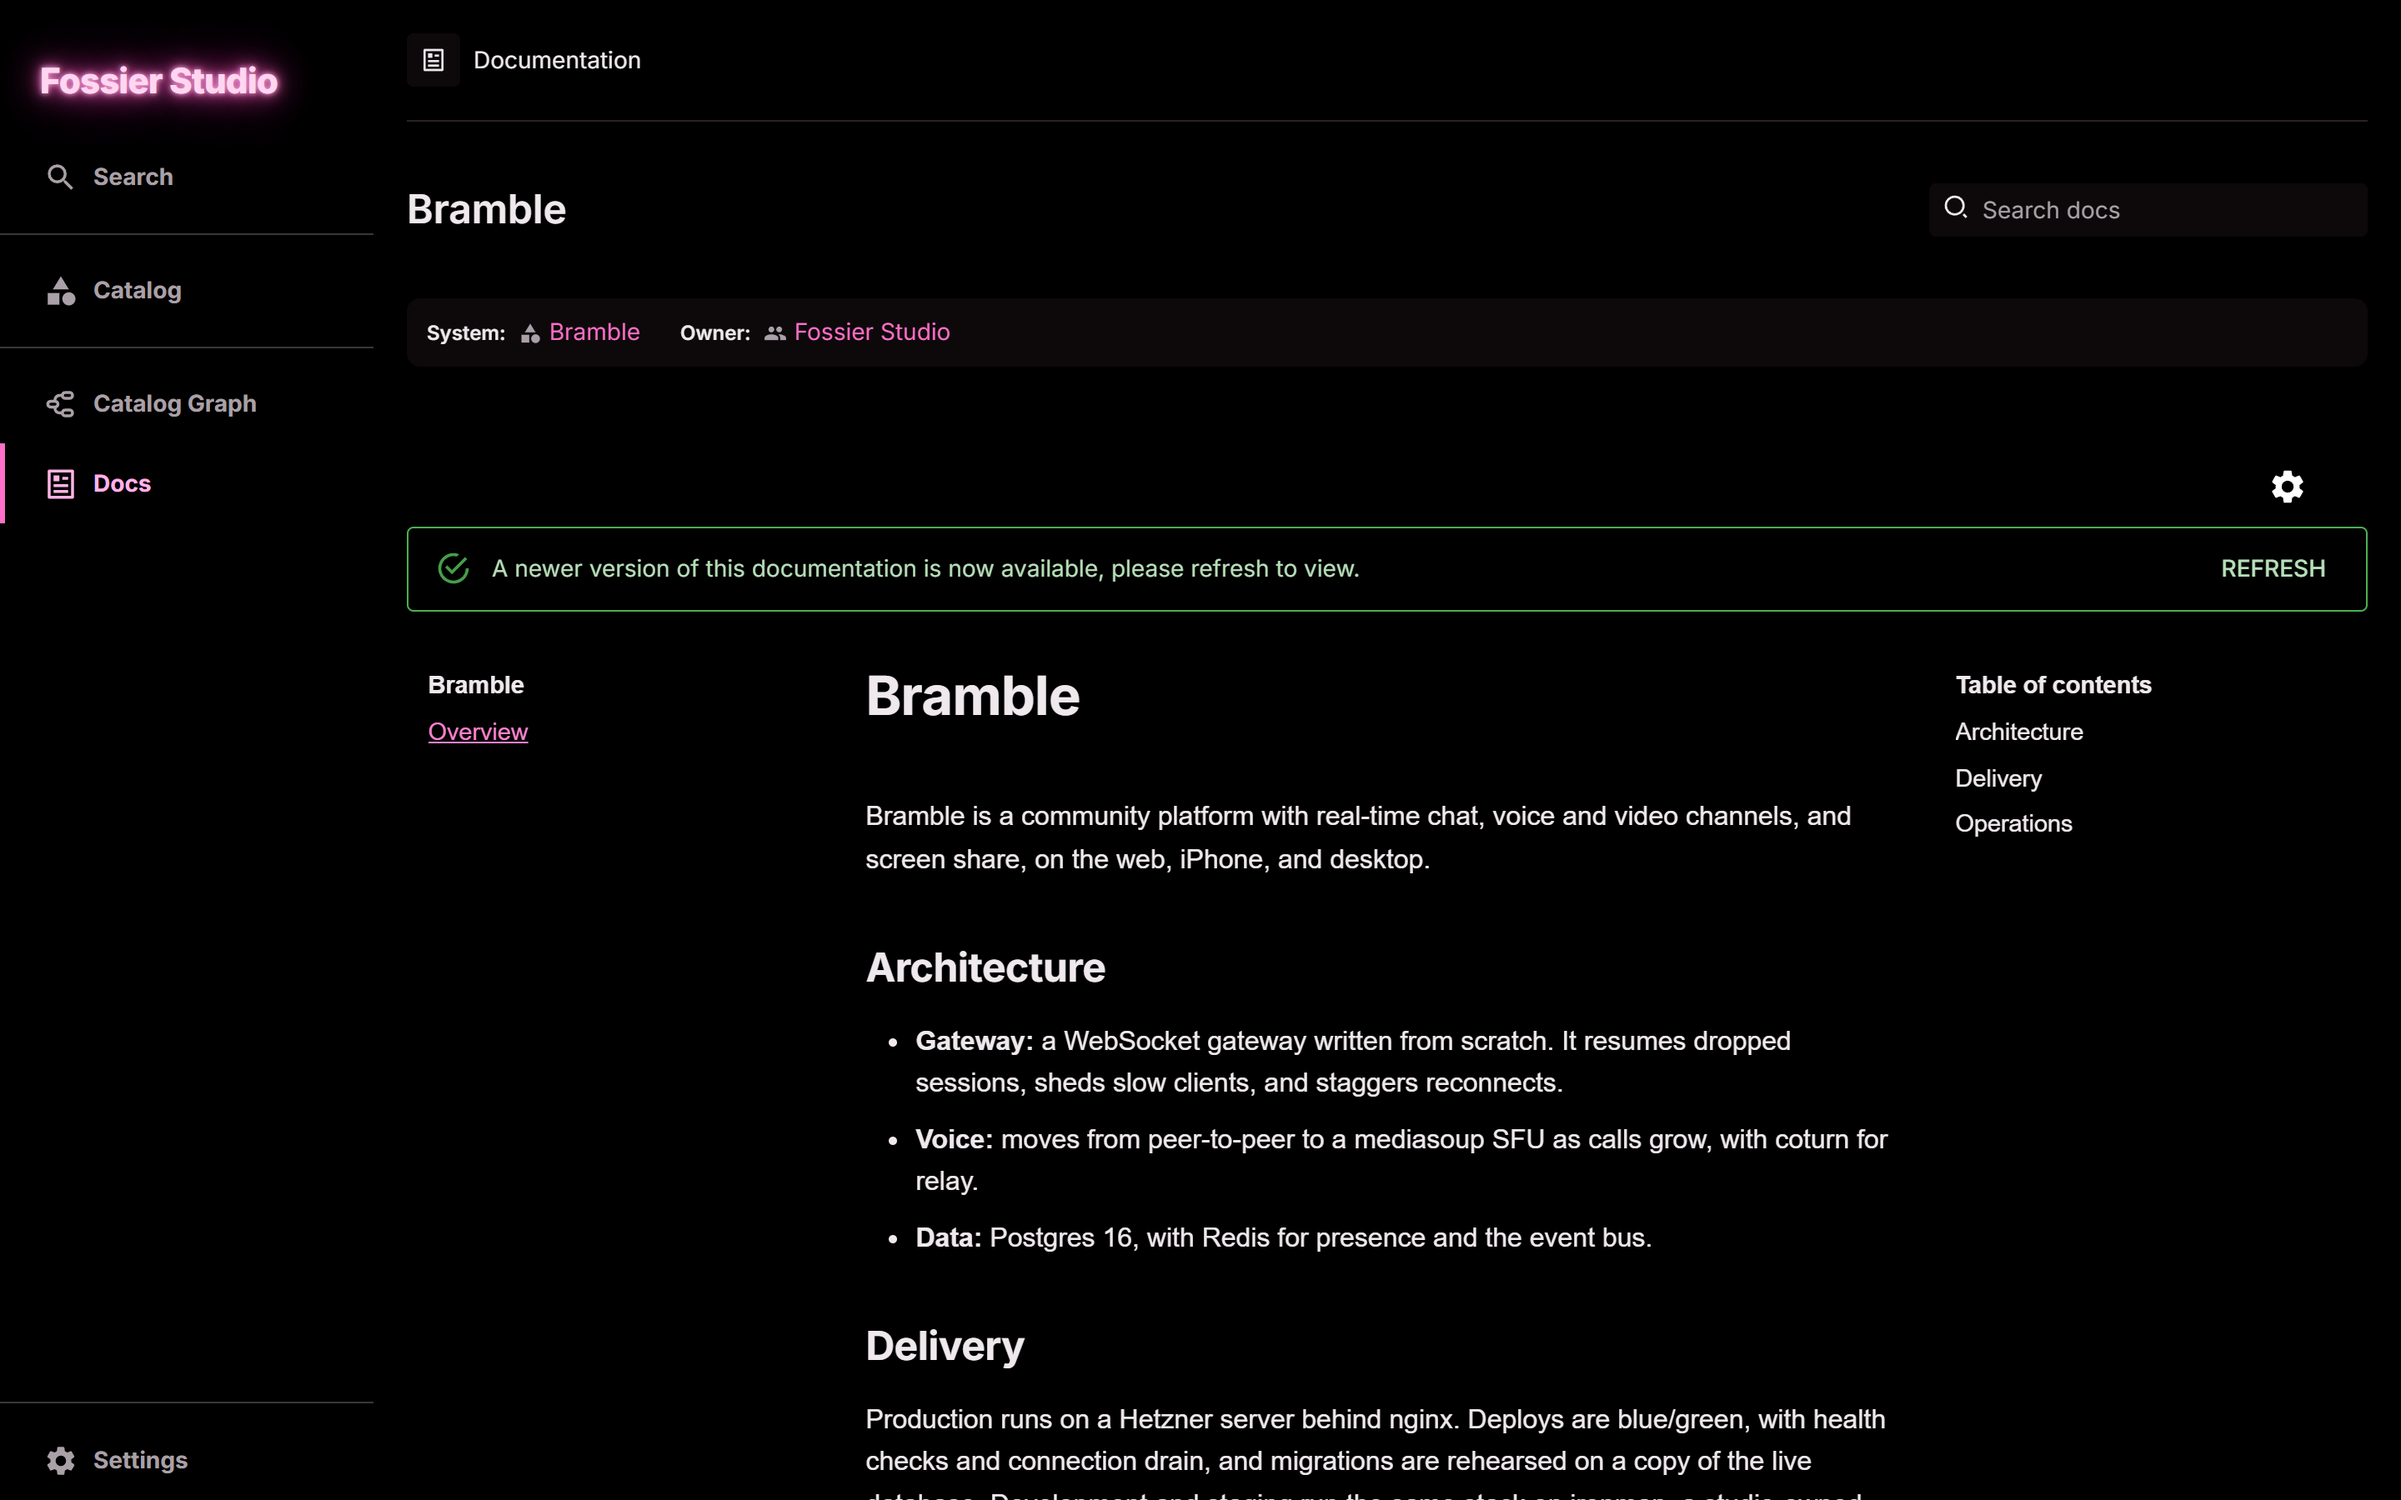
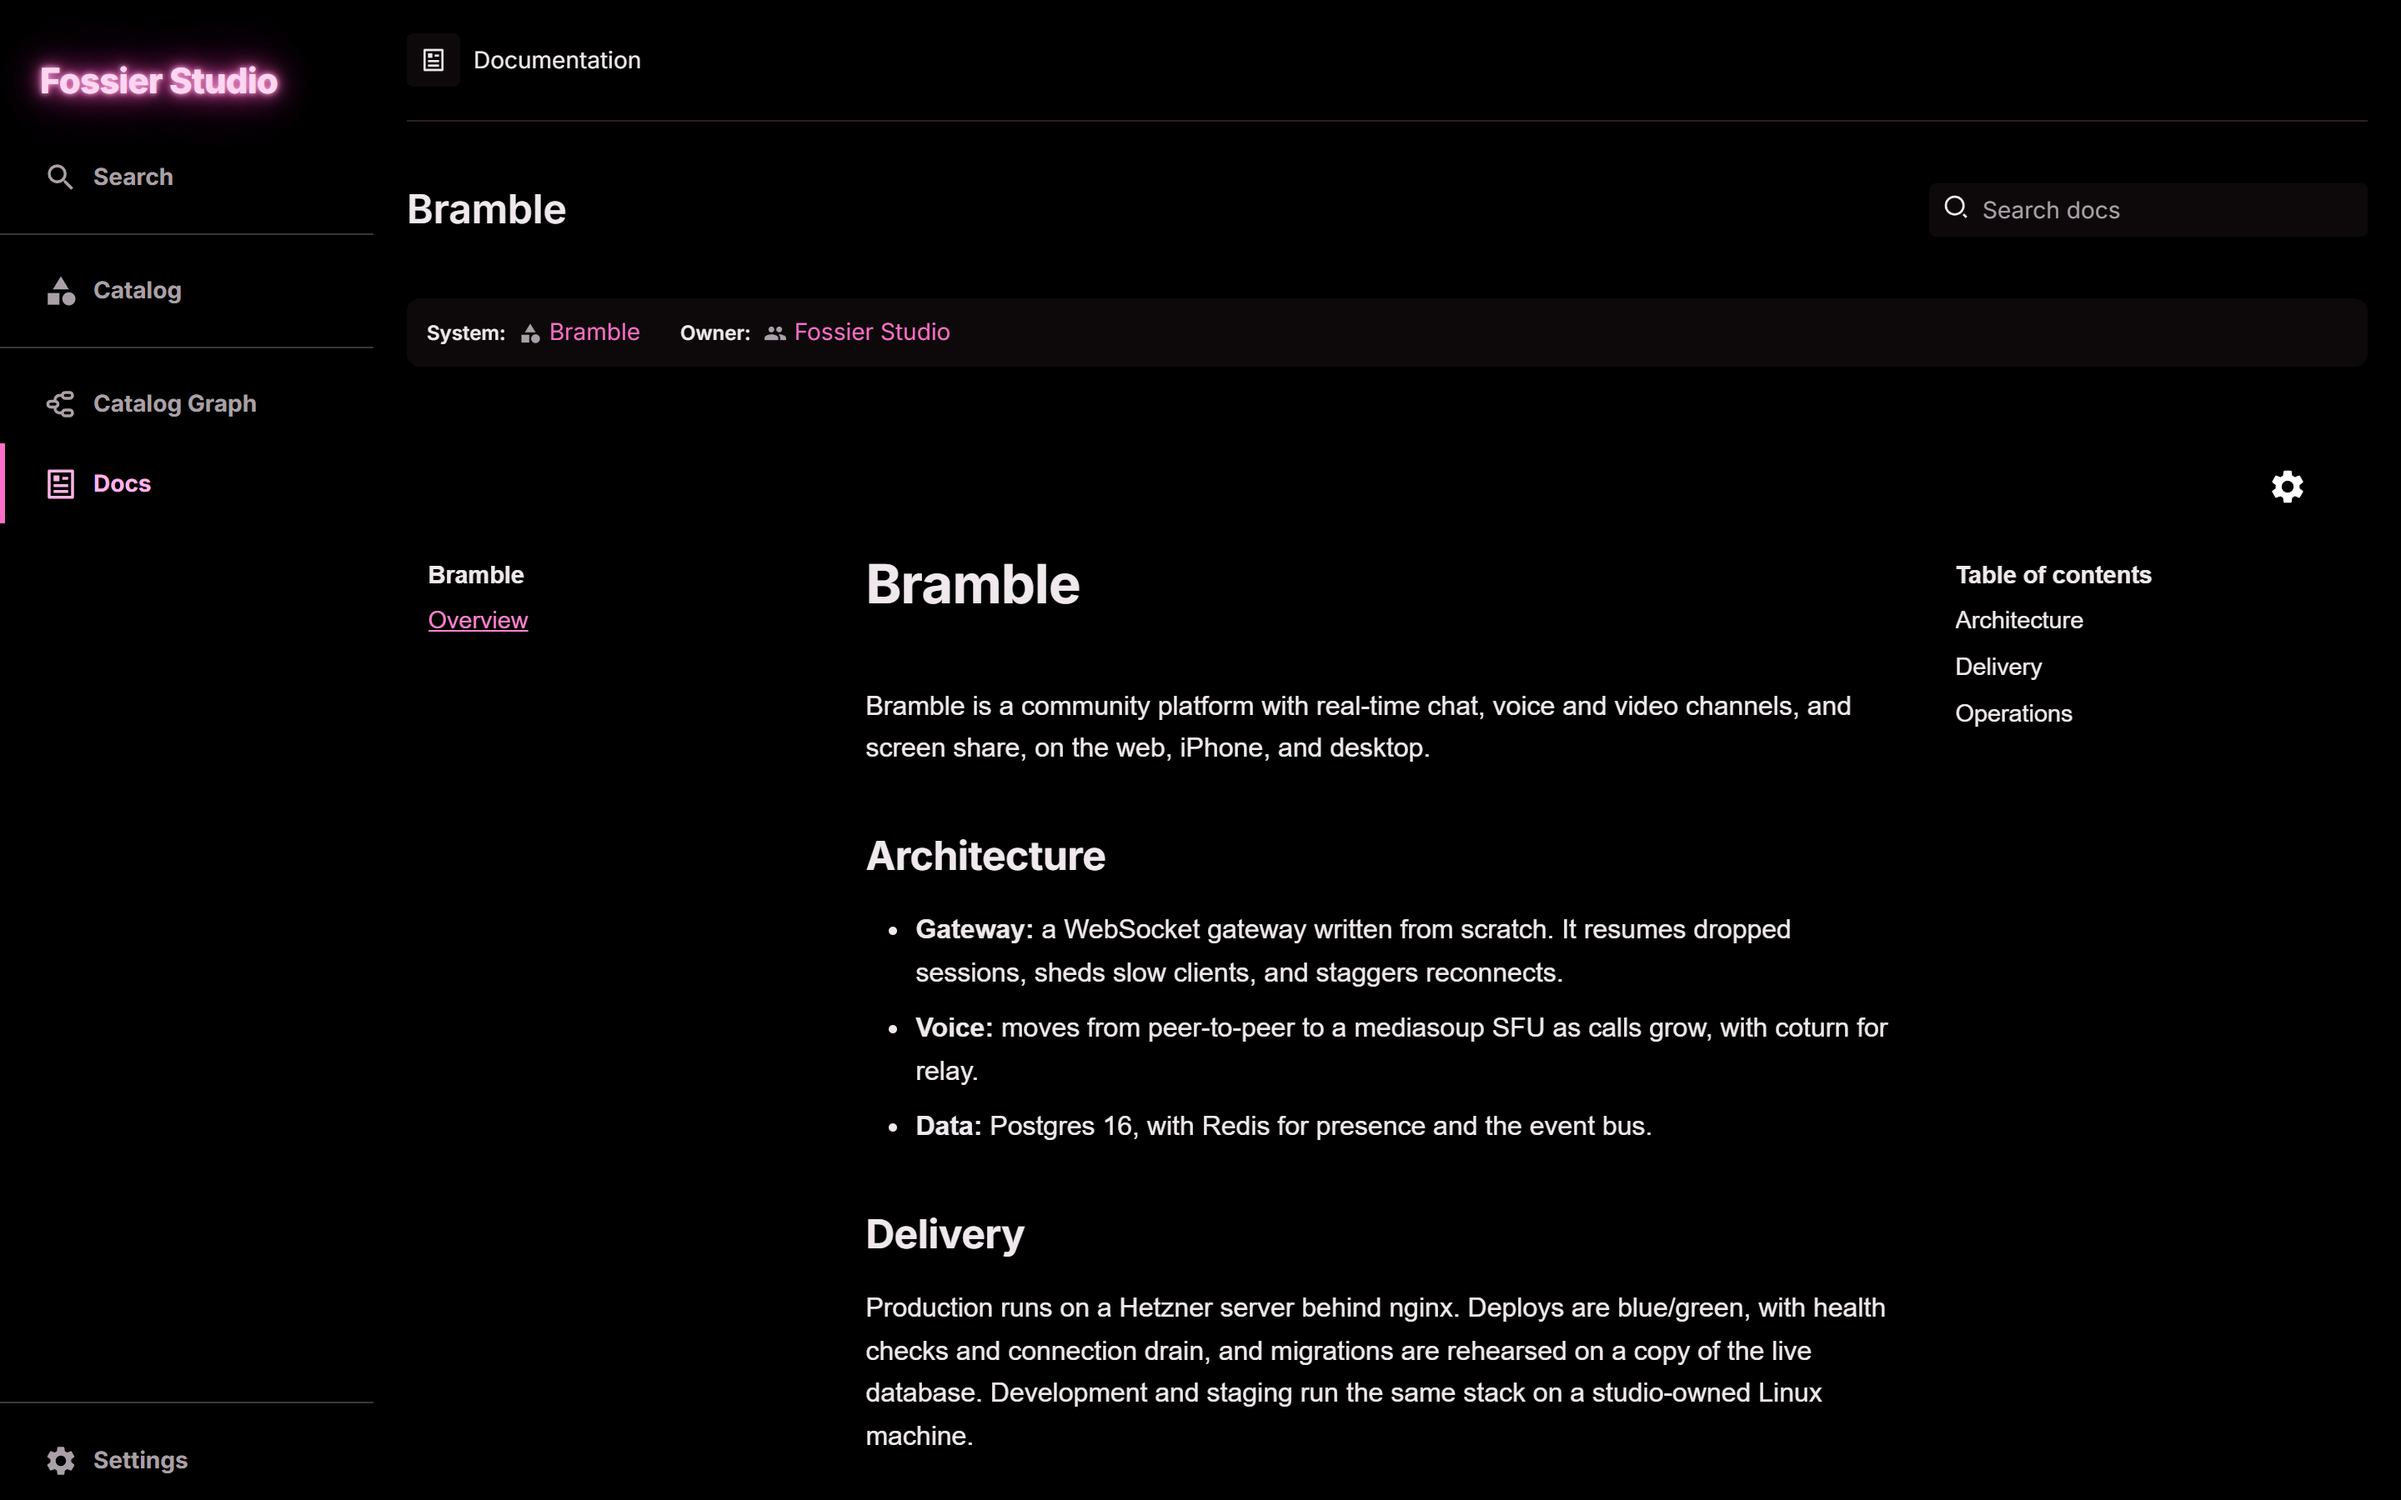
Tighten claims, CI, and host isolation
An internal Docker network still exposed host ports through its gateway,
so isolate the gateway too. Run lint, tests, and Prettier in CI, and add a
deploy script and portal healthcheck.

Correct README and home page wording that overstated the docs coverage,
live data, and isolation. Remove the stale e2e test and scaffold READMEs,
and add source links to catalog entities.

diff --git a/portal/packages/app/src/modules/home/HomePage.tsx b/portal/packages/app/src/modules/home/HomePage.tsx
@@ -89,9 +89,10 @@ export const HomePage = () => {
       <h1 className={classes.headline}>Welcome Backstage</h1>
       {systems && (
         <p className={classes.summary}>
-          {systems.length} systems and {componentCount} components, each with an
-          owner and docs. Bramble alone has shipped 480 production deploys since
-          March 2026, with a median of 6 minutes from push to live.
+          {systems.length} systems and {componentCount} components. Every
+          component has an owner, and every system has docs. Bramble alone has
+          shipped 480 production deploys since March 2026, with a median of 6
+          minutes from push to live.
         </p>
       )}
       <div className={classes.map}>

diff --git a/README.md b/README.md
@@ -4,6 +4,9 @@ A [Backstage](https://backstage.io/) developer portal for the products I build
 and run at [Fossier Studio](https://fossier.studio/projects/). It puts every
 system, its components, its owner, and its docs in one place.
 
+I built this solo over a weekend to bring my four products into one catalog and
+to get hands-on with Backstage by running it for real.
+
 **Live at [portal.fossier.studio](https://portal.fossier.studio/).** No sign-in
 needed. It runs on a home server, so it may occasionally be offline.
 
@@ -30,12 +33,13 @@ covers how these systems are built and operated.
 - **Docs next to the catalog.** Each system has TechDocs, built by Backstage
   inside the container, with no separate docs pipeline.
 - **A custom frontend.** The home page is a React page in Backstage's new
-  frontend system that draws the system map from live catalog data. The theme
-  matches the studio's site.
-- **Repeatable deployment.** A multi-stage Dockerfile and Docker Compose stack
-  run with memory and CPU limits, in their own network, next to other workloads.
-- **CI on every change.** [GitHub Actions](.github/workflows/ci.yml) type-checks
-  and builds the production image, and validates the Compose file.
+  frontend system that draws the system map from the catalog API, so it follows
+  the catalog as entries change. The theme matches the studio's site.
+- **Repeatable deployment.** A multi-stage Dockerfile, a Docker Compose stack
+  with memory and CPU limits, and a [deploy script](deploy/deploy.sh) that keeps
+  the previous image for rollback.
+- **CI on every change.** [GitHub Actions](.github/workflows/ci.yml) runs lint and
+  tests, builds the production image, and validates the Compose file.
 
 | Catalog | System page | Docs |
 |---|---|---|
@@ -82,16 +86,23 @@ and the tunnel token. Start the stack from `deploy/`:
 docker compose up -d
 ```
 
+To update a running host, build here and ship the image with:
+
+```bash
+deploy/deploy.sh <ssh-host>
+```
+
 ## Security
 
 - **Open and read-only.** Visitors go straight in as guests. A
   [permission policy](portal/packages/backend/src/readOnlyPolicy.ts) denies every
-  user action except reading, and the plugins that could change anything aren't
-  installed, so the rule holds at the API as well as in the interface.
+  user action except reading, so the rule holds at the API as well as in the
+  interface. The scaffolder and other plugins that act on outside systems aren't
+  installed.
 - **No way in except the tunnel.** The host publishes no ports for this stack,
   and its home network address stays hidden behind Cloudflare.
 - **No way out.** The portal and Postgres sit on a private Docker network with no
-  route to the host's LAN, the k3s cluster, or the internet.
+  route to the host, its LAN, the k3s cluster, or the internet.
 - Secrets live in `deploy/.env`, which is gitignored.
 - This public repo leaves out paths to private source repos, and the portal shows
   nothing that isn't already in it.

diff --git a/docs/decisions.md b/docs/decisions.md
@@ -12,15 +12,17 @@ It can be stopped, rebuilt, or removed without touching that cluster.
 ## Build the image off the host
 
 The host also runs CI builds, and they can saturate its disk. Building Backstage
-there would compete with that work, so the image is built elsewhere and shipped
-to the host. The Dockerfile is multi-stage, so any machine with Docker can
+there would compete with that work, so [`deploy/deploy.sh`](../deploy/deploy.sh) builds the
+image elsewhere and ships it to the host. The Dockerfile is multi-stage, so any machine with Docker can
 produce the same image.
 
 ## Keep catalog data in this repo
 
 Backstage usually reads a `catalog-info.yaml` from each service's repo. Several
 of these repos are private, and this one is public, so catalog entries live here
-and link to public pages. Without access to those repos, the portal needs no
+and link to public pages. Component View Source links open the definition here,
+and systems link to it instead, because TechDocs would otherwise fetch their docs
+from GitHub through `backstage.io/source-location`. Without access to those repos, the portal needs no
 GitHub token, which also means there is no credential to protect.
 
 The cost is that an entry can drift from its repo. Moving entries into each repo
@@ -41,8 +43,9 @@ create and import pages, but a guest token could still call the scaffolder API.
 
 Enforcement now lives in the backend. The scaffolder, notifications, user
 settings, and MCP plugins aren't installed, and a permission policy denies every
-user action except reading. Real sign-in comes back with self-service templates,
-which need it.
+user action except reading. TechDocs still rebuilds pages when they're read,
+which writes to its own volume but can't change what they say. Real sign-in comes
+back with self-service templates, which need it.
 
 ## Publish through a tunnel, with no route out
 
@@ -52,7 +55,9 @@ connection instead, and Cloudflare provides HTTPS.
 
 The tunnel runs as its own container with its own token, so it can't affect the
 host's other tunnel, and stopping it takes the portal offline at once. The portal
-and Postgres sit on an internal Docker network with no published ports. If the
-portal were compromised, it would have no way to reach the LAN, the k3s cluster,
-or the internet. The cost is that anything needing outbound access, such as live
+and Postgres sit on an internal Docker network with no published ports. An
+internal network alone still lets containers reach host ports through its
+gateway, which a test from inside the container showed, so the gateway is isolated
+too. If the portal were compromised, it would have no way to reach the host, the
+LAN, the k3s cluster, or the internet. The cost is that anything needing outbound access, such as live
 CI status, will need a deliberate exception.

diff --git a/portal/README.md b/portal/README.md
@@ -3,13 +3,13 @@
 The Backstage app behind the Fossier Studio Portal. See the
 [project README](../README.md) for the overview.
 
-| Path | Purpose |
-|---|---|
-| `catalog/` | Catalog entities and TechDocs, one folder per system |
-| `packages/app/src/modules/home/` | Home page and system map |
-| `packages/app/src/modules/theme/` | Theme and Backstage UI tokens |
-| `packages/app/src/modules/nav/` | Sidebar and wordmark |
-| `Dockerfile` | Multi-stage production image |
+| Path                              | Purpose                                              |
+| --------------------------------- | ---------------------------------------------------- |
+| `catalog/`                        | Catalog entities and TechDocs, one folder per system |
+| `packages/app/src/modules/home/`  | Home page and system map                             |
+| `packages/app/src/modules/theme/` | Theme and Backstage UI tokens                        |
+| `packages/app/src/modules/nav/`   | Sidebar and wordmark                                 |
+| `Dockerfile`                      | Multi-stage production image                         |
 
 To run it locally:
 
